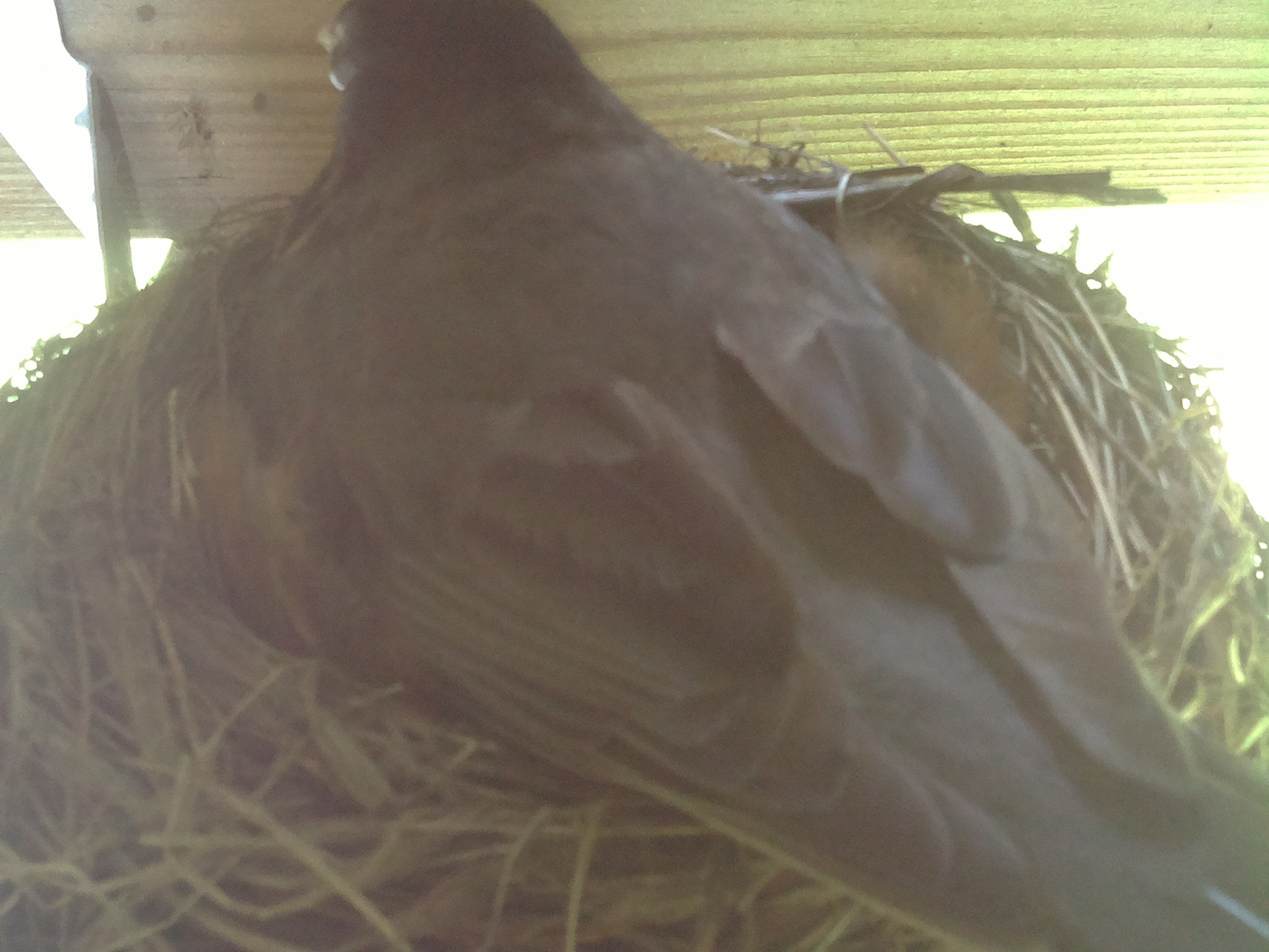
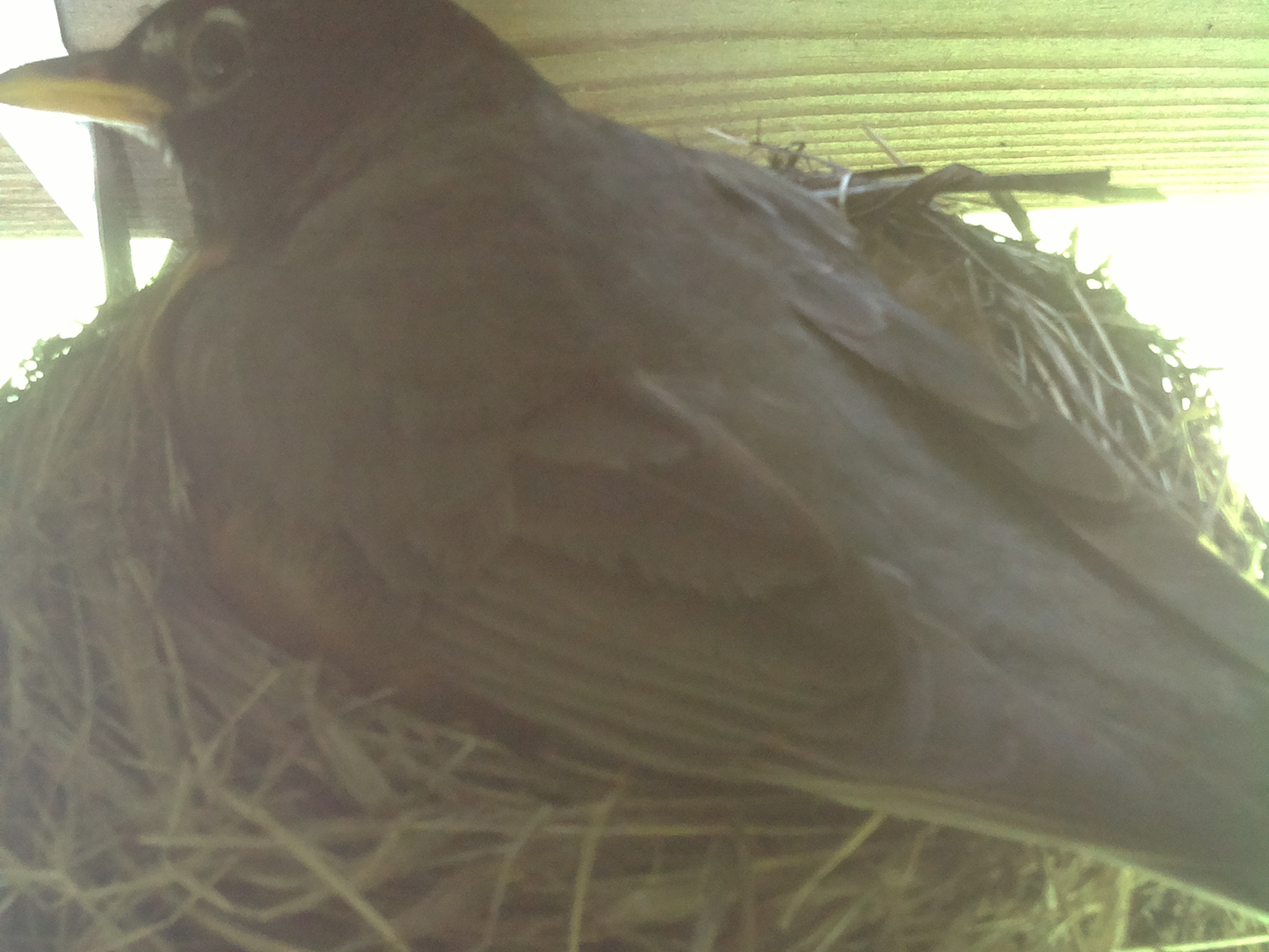
update website

diff --git a/index.html b/index.html
@@ -1,1 +1,1 @@
-<html><head><title>Robins</title><style>div {	background-image:url(current.jpg);	background-size: cover;	height:100%;	width:100%;	}</style><style>h1 {	background-color:#FFFFFF;	}</style></head><body><div id=wholePage><h1>Last updated: 2015-07-20_0740</h1></div></body></html>
+<html><head><title>Robins</title><style>div {	background-image:url(current.jpg);	background-size: cover;	height:100%;	width:100%;	}</style><style>h1 {	background-color:#FFFFFF;	}</style></head><body><div id=wholePage><h1>Last updated: 2015-07-20_0750</h1></div></body></html>
